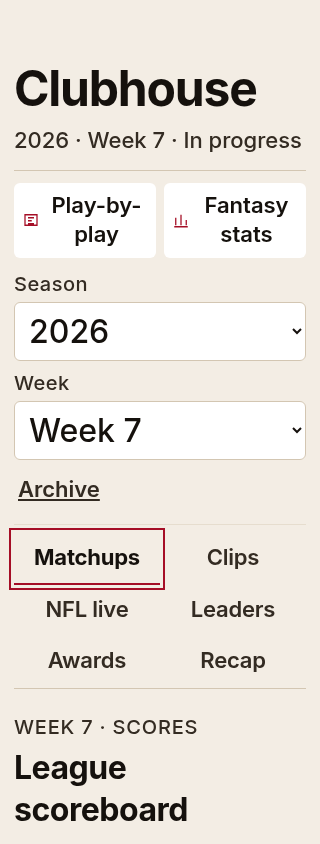
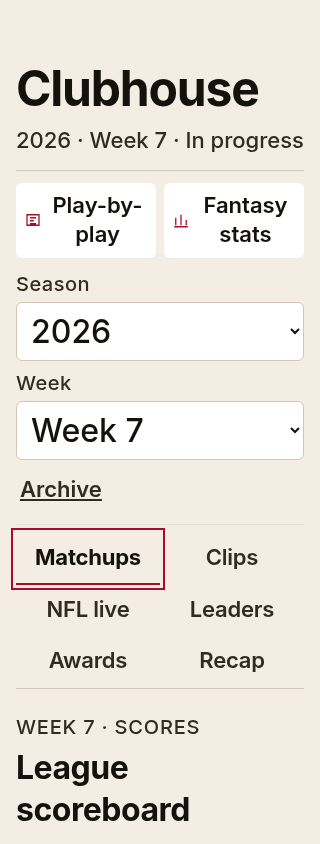
Keep compact controls fitted at the 320px phone gutter

diff --git a/css/app-shared.css b/css/app-shared.css
@@ -8152,14 +8152,14 @@ html[data-readability="comfortable"] #view.view[data-route="clubhouse"] .clubhou
 @container clubhouse-tabs (max-width:12rem) {
  #view.view[data-route="clubhouse"] .clubhouse-command-center .clubhouse-tabs { grid-template-columns:repeat(2,minmax(0,1fr)); }
 }
-@container clubhouse-pickers (max-width:18rem) {
+@container clubhouse-pickers (max-width:17.5rem) {
  #view.view[data-route="clubhouse"] .clubhouse-command-center .clubhouse-week-picker { grid-template-columns:repeat(2,minmax(0,1fr)); }
  #view.view[data-route="clubhouse"] .clubhouse-command-center .clubhouse-archive-action { grid-column:1/-1; justify-self:start; }
 }
 @container clubhouse-pickers (max-width:12rem) {
  #view.view[data-route="clubhouse"] .clubhouse-command-center .clubhouse-week-picker { grid-template-columns:minmax(0,1fr); }
 }
-@container clubhouse-tools (max-width:18rem) {
+@container clubhouse-tools (max-width:17.5rem) {
  #view.view[data-route="clubhouse"] .clubhouse-command-center .clubhouse-matchup-toolbar [data-matchup-freshness] { flex-basis:100%; }
 }
 @media(max-width:600px) {
@@ -8178,7 +8178,7 @@ html[data-readability="comfortable"] #view.view[data-route="clubhouse"] .clubhou
 #view.view[data-route="clubhouse"] .clubhouse-strip-team>.dfl-team-mark { grid-column:1; grid-row:1; width:var(--score-mark); height:var(--score-mark); border-radius:5px; }
 #view.view[data-route="clubhouse"] .clubhouse-strip-team>strong { grid-column:2; grid-row:1; }
 #view.view[data-route="clubhouse"] .clubhouse-strip-team>b { grid-column:3; grid-row:1; font-size:var(--score-number); line-height:1.1; }
-@container clubhouse-score (max-width:18rem) {
+@container clubhouse-score (max-width:17.5rem) {
  #view.view[data-route="clubhouse"] .clubhouse-strip-teams { grid-template-columns:minmax(0,1fr); gap:8px; }
 }
 

diff --git a/css/interface-system.css b/css/interface-system.css
@@ -137,14 +137,14 @@ html[data-readability="comfortable"] #view.view[data-route="clubhouse"] .clubhou
 @container clubhouse-tabs (max-width:12rem) {
  #view.view[data-route="clubhouse"] .clubhouse-command-center .clubhouse-tabs { grid-template-columns:repeat(2,minmax(0,1fr)); }
 }
-@container clubhouse-pickers (max-width:18rem) {
+@container clubhouse-pickers (max-width:17.5rem) {
  #view.view[data-route="clubhouse"] .clubhouse-command-center .clubhouse-week-picker { grid-template-columns:repeat(2,minmax(0,1fr)); }
  #view.view[data-route="clubhouse"] .clubhouse-command-center .clubhouse-archive-action { grid-column:1/-1; justify-self:start; }
 }
 @container clubhouse-pickers (max-width:12rem) {
  #view.view[data-route="clubhouse"] .clubhouse-command-center .clubhouse-week-picker { grid-template-columns:minmax(0,1fr); }
 }
-@container clubhouse-tools (max-width:18rem) {
+@container clubhouse-tools (max-width:17.5rem) {
  #view.view[data-route="clubhouse"] .clubhouse-command-center .clubhouse-matchup-toolbar [data-matchup-freshness] { flex-basis:100%; }
 }
 @media(max-width:600px) {
@@ -163,7 +163,7 @@ html[data-readability="comfortable"] #view.view[data-route="clubhouse"] .clubhou
 #view.view[data-route="clubhouse"] .clubhouse-strip-team>.dfl-team-mark { grid-column:1; grid-row:1; width:var(--score-mark); height:var(--score-mark); border-radius:5px; }
 #view.view[data-route="clubhouse"] .clubhouse-strip-team>strong { grid-column:2; grid-row:1; }
 #view.view[data-route="clubhouse"] .clubhouse-strip-team>b { grid-column:3; grid-row:1; font-size:var(--score-number); line-height:1.1; }
-@container clubhouse-score (max-width:18rem) {
+@container clubhouse-score (max-width:17.5rem) {
  #view.view[data-route="clubhouse"] .clubhouse-strip-teams { grid-template-columns:minmax(0,1fr); gap:8px; }
 }
 

diff --git a/tools/capture-clubhouse-live.py b/tools/capture-clubhouse-live.py
@@ -71,6 +71,7 @@ with sync_playwright() as p:
    }''',mode)
    tag=f'{width}px {mode}';page.wait_for_selector('.gd-lineup-comparison',timeout=20000)
    if os.environ.get('DFL_CLUBHOUSE_LAYOUT_ONLY'):
+    page.locator('#view').evaluate("e=>e.style.paddingInline='16px'")
     for size,reader in [(16,'compact'),(16,'comfortable'),(20,'compact'),(32,'compact')]:
      page.evaluate("([size,reader])=>{document.documentElement.style.fontSize=size+'px';document.documentElement.dataset.readability=reader}",[size,reader]);page.evaluate('document.fonts.ready')
      for tab in ['matchups','highlights','nfl','leaders','overview','recap']:
